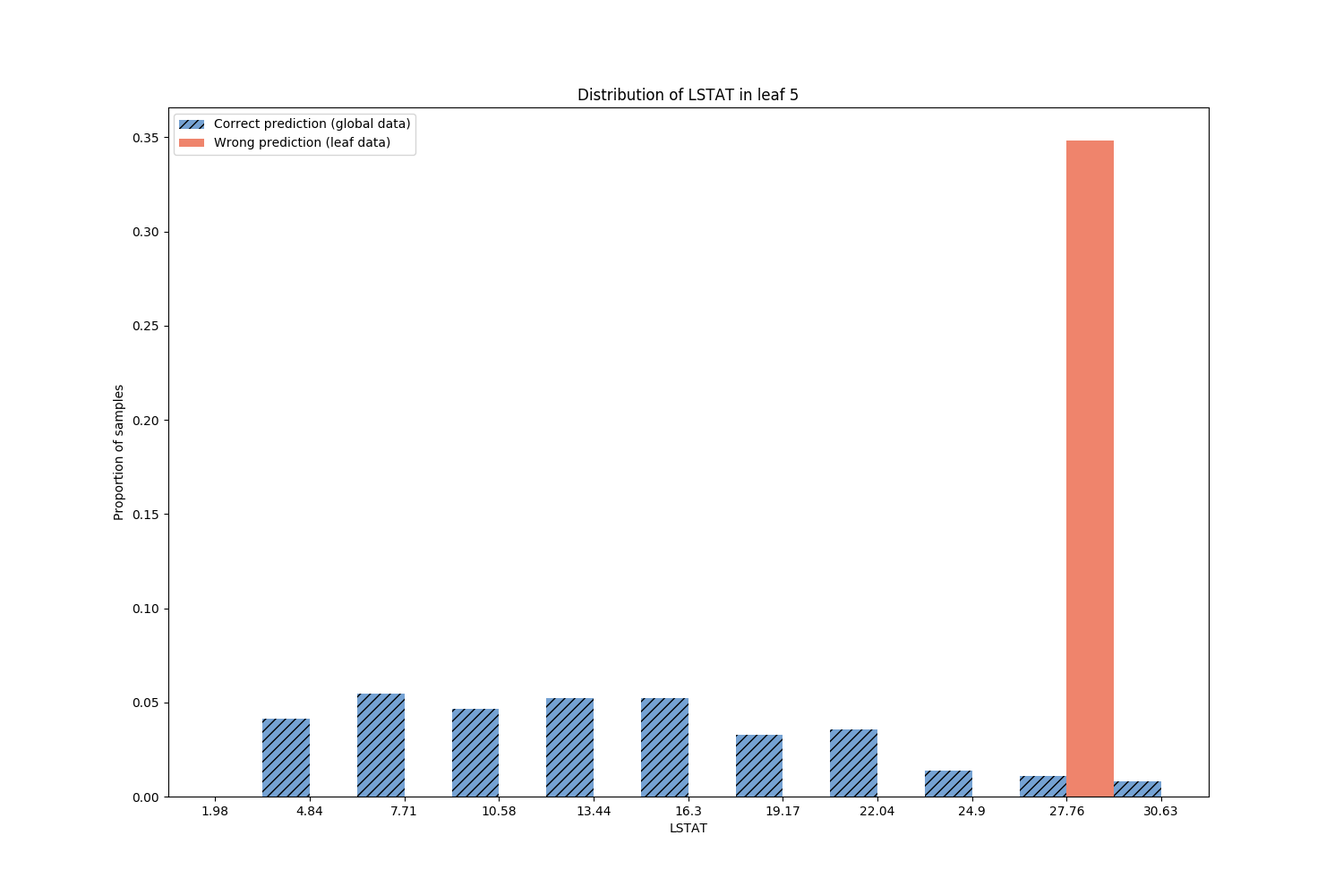
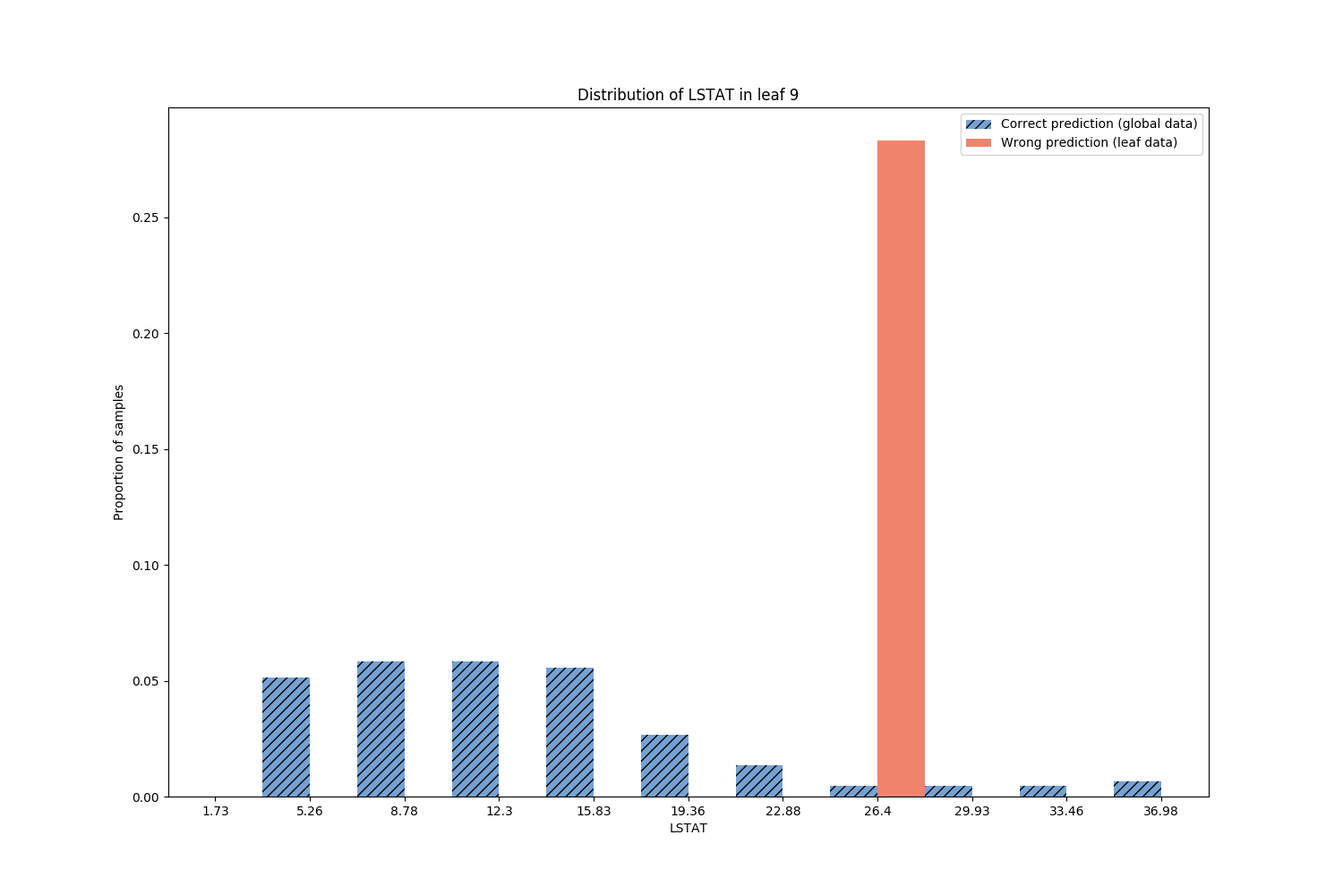
update doc

diff --git a/auto_examples/plot_mea.html b/auto_examples/plot_mea.html
@@ -205,11 +205,18 @@ to the whole data highlights the subpopulations where the model works poorly.</p
 <span class="kn">from</span> <span class="nn">sklearn.ensemble</span> <span class="kn">import</span> <a href="https://scikit-learn.org/stable/modules/generated/sklearn.ensemble.RandomForestRegressor.html#sklearn.ensemble.RandomForestRegressor" title="View documentation for sklearn.ensemble.RandomForestRegressor"><span class="n">RandomForestRegressor</span></a>
 
 <span class="kn">import</span> <span class="nn">numpy</span> <span class="k">as</span> <span class="nn">np</span>
+<span class="kn">import</span> <span class="nn">random</span>
+
+<span class="kn">import</span> <span class="nn">matplotlib.image</span> <span class="k">as</span> <span class="nn">mpimg</span>
+<span class="kn">import</span> <span class="nn">matplotlib.pyplot</span> <span class="k">as</span> <span class="nn">plt</span>
 
 <span class="kn">from</span> <span class="nn">mea.error_analyzer</span> <span class="kn">import</span> <span class="n">ErrorAnalyzer</span>
 <span class="kn">from</span> <span class="nn">mea.error_visualizer</span> <span class="kn">import</span> <span class="n">ErrorVisualizer</span>
 
-<a href="https://numpy.org/doc/stable/reference/random/generated/numpy.random.seed.html#numpy.random.seed" title="View documentation for numpy.random.seed"><span class="n">np</span><span class="o">.</span><span class="n">random</span><span class="o">.</span><span class="n">seed</span></a><span class="p">(</span><span class="mi">100</span><span class="p">)</span>
+
+<a href="https://docs.python.org/3/library/functions.html#int" title="View documentation for builtins.int"><span class="n">default_seed</span></a> <span class="o">=</span> <span class="mi">10</span>
+<a href="https://numpy.org/doc/stable/reference/random/generated/numpy.random.seed.html#numpy.random.seed" title="View documentation for numpy.random.seed"><span class="n">np</span><span class="o">.</span><span class="n">random</span><span class="o">.</span><span class="n">seed</span></a><span class="p">(</span><a href="https://docs.python.org/3/library/functions.html#int" title="View documentation for builtins.int"><span class="n">default_seed</span></a><span class="p">)</span>
+<a href="https://docs.python.org/3/library/random.html#random.seed" title="View documentation for random.seed"><span class="n">random</span><span class="o">.</span><span class="n">seed</span></a><span class="p">(</span><a href="https://docs.python.org/3/library/functions.html#int" title="View documentation for builtins.int"><span class="n">default_seed</span></a><span class="p">)</span>
 </pre></div>
 </div>
 <p>Load Boston houses dataset</p>
@@ -243,54 +250,79 @@ to the whole data highlights the subpopulations where the model works poorly.</p
 </pre></div>
 </div>
 <p class="sphx-glr-script-out">Out:</p>
-<div class="sphx-glr-script-out highlight-none notranslate"><div class="highlight"><pre><span></span>The MPP was trained with accuracy 96.85%.
-The Decision Tree estimated the primary models accuracy to 91.34%.
-The true accuracy of the primary model is 88.19.%
-The Fidelity of the MPP is 96.85%.
+<div class="sphx-glr-script-out highlight-none notranslate"><div class="highlight"><pre><span></span>The MPP was trained with accuracy 98.43%.
+The Decision Tree estimated the primary models accuracy to 86.61%.
+The true accuracy of the primary model is 85.04.%
+The Fidelity of the MPP is 98.43%.
 The MPP is considered representative of the primary model performances.
 </pre></div>
 </div>
 <p>Plot the Model Performance Predictor Decision Tree</p>
 <div class="highlight-python3 notranslate"><div class="highlight"><pre><span></span><span class="n">error_visualizer</span> <span class="o">=</span> <span class="n">ErrorVisualizer</span><span class="p">(</span><span class="n">error_analyzer</span><span class="p">)</span>
-<span class="n">error_visualizer</span><span class="o">.</span><span class="n">plot_error_tree</span><span class="p">(</span><span class="n">size</span><span class="o">=</span><span class="p">(</span><span class="mi">5</span><span class="p">,</span> <span class="mi">5</span><span class="p">))</span>
+<span class="n">tree_src</span> <span class="o">=</span> <span class="n">error_visualizer</span><span class="o">.</span><span class="n">plot_error_tree</span><span class="p">()</span>
+
+<span class="c1"># the output of ``plot_error_tree`` is rendered automatically in a python notebook</span>
+<span class="c1"># the following is for rendering in this sphynx gallery</span>
+<span class="n">tree_src</span><span class="o">.</span><span class="n">format</span> <span class="o">=</span> <span class="s1">&#39;png&#39;</span>
+<span class="n">tree_src</span><span class="o">.</span><span class="n">render</span><span class="p">(</span><span class="s1">&#39;tree&#39;</span><span class="p">)</span>
+<a href="https://numpy.org/doc/stable/reference/generated/numpy.ndarray.html#numpy.ndarray" title="View documentation for numpy.ndarray"><span class="n">tree_img</span></a> <span class="o">=</span> <a href="https://matplotlib.org/api/image_api.html#matplotlib.image.imread" title="View documentation for matplotlib.image.imread"><span class="n">mpimg</span><span class="o">.</span><span class="n">imread</span></a><span class="p">(</span><span class="s1">&#39;tree.png&#39;</span><span class="p">)</span>
+
+<a href="https://matplotlib.org/api/_as_gen/matplotlib.pyplot.figure.html#matplotlib.pyplot.figure" title="View documentation for matplotlib.pyplot.figure"><span class="n">plt</span><span class="o">.</span><span class="n">figure</span></a><span class="p">(</span><span class="n">figsize</span><span class="o">=</span><span class="p">(</span><span class="mi">20</span><span class="p">,</span> <span class="mi">20</span><span class="p">))</span>
+<a href="https://matplotlib.org/api/_as_gen/matplotlib.pyplot.imshow.html#matplotlib.pyplot.imshow" title="View documentation for matplotlib.pyplot.imshow"><span class="n">plt</span><span class="o">.</span><span class="n">imshow</span></a><span class="p">(</span><a href="https://numpy.org/doc/stable/reference/generated/numpy.ndarray.html#numpy.ndarray" title="View documentation for numpy.ndarray"><span class="n">tree_img</span></a><span class="p">)</span>
+<a href="https://matplotlib.org/api/_as_gen/matplotlib.pyplot.axis.html#matplotlib.pyplot.axis" title="View documentation for matplotlib.pyplot.axis"><span class="n">plt</span><span class="o">.</span><span class="n">axis</span></a><span class="p">(</span><span class="s1">&#39;off&#39;</span><span class="p">)</span>
 </pre></div>
 </div>
-<p class="sphx-glr-script-out">Out:</p>
-<div class="sphx-glr-script-out highlight-none notranslate"><div class="highlight"><pre><span></span>&lt;graphviz.files.Source object at 0x12c3ebe80&gt;
-</pre></div>
-</div>
+<img alt="../_images/sphx_glr_plot_mea_001.png" class="sphx-glr-single-img" src="../_images/sphx_glr_plot_mea_001.png" />
 <p>Print the details regarding the decision tree nodes containing the majority of errors</p>
 <div class="highlight-python3 notranslate"><div class="highlight"><pre><span></span><span class="n">error_analyzer</span><span class="o">.</span><span class="n">error_node_summary</span><span class="p">(</span><span class="n">leaf_selector</span><span class="o">=</span><span class="s2">&quot;all_errors&quot;</span><span class="p">,</span> <span class="n">add_path_to_leaves</span><span class="o">=</span><span class="kc">True</span><span class="p">,</span> <span class="n">print_summary</span><span class="o">=</span><span class="kc">True</span><span class="p">);</span>
 </pre></div>
 </div>
 <p class="sphx-glr-script-out">Out:</p>
-<div class="sphx-glr-script-out highlight-none notranslate"><div class="highlight"><pre><span></span>LEAF 2:
-     Correct predictions: 0 | Wrong predictions: 5 | Local error (purity): 1.00 | Global error: 0.33
+<div class="sphx-glr-script-out highlight-none notranslate"><div class="highlight"><pre><span></span>LEAF 12:
+     Correct predictions: 0 | Wrong predictions: 10 | Local error (purity): 1.00 | Global error: 0.53
      Path to leaf:
-     DIS &lt;= 1.51
-        LSTAT &lt;= 20.78
-LEAF 17:
-     Correct predictions: 0 | Wrong predictions: 3 | Local error (purity): 1.00 | Global error: 0.20
-     Path to leaf:
-     DIS &gt; 1.51
-        RM &gt; 8.00
-           NOX &lt;= 0.59
+     AGE &gt; 82.15
+        LSTAT &lt;= 8.96
+           RM &lt;= 8.21
 LEAF 14:
-     Correct predictions: 0 | Wrong predictions: 2 | Local error (purity): 1.00 | Global error: 0.13
+     Correct predictions: 0 | Wrong predictions: 2 | Local error (purity): 1.00 | Global error: 0.11
      Path to leaf:
-     DIS &gt; 1.51
-        RM &lt;= 8.00
-           NOX &gt; 0.51
-              DIS &gt; 2.89
-                 DIS &lt;= 3.34
-LEAF 5:
-     Correct predictions: 0 | Wrong predictions: 1 | Local error (purity): 1.00 | Global error: 0.07
+     AGE &gt; 82.15
+        LSTAT &lt;= 8.96
+           RM &gt; 8.21
+              AGE &lt;= 89.20
+LEAF 3:
+     Correct predictions: 0 | Wrong predictions: 1 | Local error (purity): 1.00 | Global error: 0.05
      Path to leaf:
-     DIS &lt;= 1.51
-        LSTAT &gt; 20.78
-           DIS &gt; 1.47
-
-[{&#39;id&#39;: 2, &#39;n_corrects&#39;: 0.0, &#39;n_errors&#39;: 5.0, &#39;local_error&#39;: 1.0, &#39;global_error&#39;: 0.3333333333333333, &#39;path_to_leaf&#39;: deque([&#39;DIS &lt;= 1.51&#39;, &#39;LSTAT &lt;= 20.78&#39;])}, {&#39;id&#39;: 17, &#39;n_corrects&#39;: 0.0, &#39;n_errors&#39;: 3.0, &#39;local_error&#39;: 1.0, &#39;global_error&#39;: 0.2, &#39;path_to_leaf&#39;: deque([&#39;DIS &gt; 1.51&#39;, &#39;RM &gt; 8.00&#39;, &#39;NOX &lt;= 0.59&#39;])}, {&#39;id&#39;: 14, &#39;n_corrects&#39;: 0.0, &#39;n_errors&#39;: 2.0, &#39;local_error&#39;: 1.0, &#39;global_error&#39;: 0.13333333333333333, &#39;path_to_leaf&#39;: deque([&#39;DIS &gt; 1.51&#39;, &#39;RM &lt;= 8.00&#39;, &#39;NOX &gt; 0.51&#39;, &#39;DIS &gt; 2.89&#39;, &#39;DIS &lt;= 3.34&#39;])}, {&#39;id&#39;: 5, &#39;n_corrects&#39;: 0.0, &#39;n_errors&#39;: 1.0, &#39;local_error&#39;: 1.0, &#39;global_error&#39;: 0.06666666666666667, &#39;path_to_leaf&#39;: deque([&#39;DIS &lt;= 1.51&#39;, &#39;LSTAT &gt; 20.78&#39;, &#39;DIS &gt; 1.47&#39;])}]
+     AGE &lt;= 82.15
+        LSTAT &lt;= 25.53
+           TAX &lt;= 204.50
+LEAF 9:
+     Correct predictions: 0 | Wrong predictions: 1 | Local error (purity): 1.00 | Global error: 0.05
+     Path to leaf:
+     AGE &lt;= 82.15
+        LSTAT &gt; 25.53
+LEAF 17:
+     Correct predictions: 0 | Wrong predictions: 1 | Local error (purity): 1.00 | Global error: 0.05
+     Path to leaf:
+     AGE &gt; 82.15
+        LSTAT &gt; 8.96
+           DIS &lt;= 1.32
+LEAF 19:
+     Correct predictions: 0 | Wrong predictions: 1 | Local error (purity): 1.00 | Global error: 0.05
+     Path to leaf:
+     AGE &gt; 82.15
+        LSTAT &gt; 8.96
+           DIS &gt; 1.32
+              TAX &lt;= 213.00
+LEAF 21:
+     Correct predictions: 0 | Wrong predictions: 1 | Local error (purity): 1.00 | Global error: 0.05
+     Path to leaf:
+     AGE &gt; 82.15
+        LSTAT &gt; 8.96
+           DIS &gt; 1.32
+              TAX &gt; 213.00
+                 RM &lt;= 4.12
 </pre></div>
 </div>
 <p>Plot the feature distributions of samples in the nodes containing the majority of errors
@@ -299,8 +331,6 @@ Rank features by correlation to error</p>
 </pre></div>
 </div>
 <ul class="sphx-glr-horizontal">
-<li><img alt="../_images/sphx_glr_plot_mea_001.png" class="sphx-glr-multi-img" src="../_images/sphx_glr_plot_mea_001.png" />
-</li>
 <li><img alt="../_images/sphx_glr_plot_mea_002.png" class="sphx-glr-multi-img" src="../_images/sphx_glr_plot_mea_002.png" />
 </li>
 <li><img alt="../_images/sphx_glr_plot_mea_003.png" class="sphx-glr-multi-img" src="../_images/sphx_glr_plot_mea_003.png" />
@@ -323,12 +353,37 @@ Rank features by correlation to error</p>
 </li>
 <li><img alt="../_images/sphx_glr_plot_mea_012.png" class="sphx-glr-multi-img" src="../_images/sphx_glr_plot_mea_012.png" />
 </li>
+<li><img alt="../_images/sphx_glr_plot_mea_013.png" class="sphx-glr-multi-img" src="../_images/sphx_glr_plot_mea_013.png" />
+</li>
+<li><img alt="../_images/sphx_glr_plot_mea_014.png" class="sphx-glr-multi-img" src="../_images/sphx_glr_plot_mea_014.png" />
+</li>
+<li><img alt="../_images/sphx_glr_plot_mea_015.png" class="sphx-glr-multi-img" src="../_images/sphx_glr_plot_mea_015.png" />
+</li>
+<li><img alt="../_images/sphx_glr_plot_mea_016.png" class="sphx-glr-multi-img" src="../_images/sphx_glr_plot_mea_016.png" />
+</li>
+<li><img alt="../_images/sphx_glr_plot_mea_017.png" class="sphx-glr-multi-img" src="../_images/sphx_glr_plot_mea_017.png" />
+</li>
+<li><img alt="../_images/sphx_glr_plot_mea_018.png" class="sphx-glr-multi-img" src="../_images/sphx_glr_plot_mea_018.png" />
+</li>
+<li><img alt="../_images/sphx_glr_plot_mea_019.png" class="sphx-glr-multi-img" src="../_images/sphx_glr_plot_mea_019.png" />
+</li>
+<li><img alt="../_images/sphx_glr_plot_mea_020.png" class="sphx-glr-multi-img" src="../_images/sphx_glr_plot_mea_020.png" />
+</li>
+<li><img alt="../_images/sphx_glr_plot_mea_021.png" class="sphx-glr-multi-img" src="../_images/sphx_glr_plot_mea_021.png" />
+</li>
+<li><img alt="../_images/sphx_glr_plot_mea_022.png" class="sphx-glr-multi-img" src="../_images/sphx_glr_plot_mea_022.png" />
+</li>
 </ul>
 <p class="sphx-glr-script-out">Out:</p>
-<div class="sphx-glr-script-out highlight-none notranslate"><div class="highlight"><pre><span></span>Leaf 2 (Wrong prediction: 1.000, Correct prediction: 0.000)
-Leaf 17 (Wrong prediction: 1.000, Correct prediction: 0.000)
+<div class="sphx-glr-script-out highlight-none notranslate"><div class="highlight"><pre><span></span>Leaf 12 (Wrong prediction: 1.000, Correct prediction: 0.000)
 Leaf 14 (Wrong prediction: 1.000, Correct prediction: 0.000)
-Leaf 5 (Wrong prediction: 1.000, Correct prediction: 0.000)
+Leaf 3 (Wrong prediction: 1.000, Correct prediction: 0.000)
+Leaf 9 (Wrong prediction: 1.000, Correct prediction: 0.000)
+Leaf 17 (Wrong prediction: 1.000, Correct prediction: 0.000)
+Leaf 19 (Wrong prediction: 1.000, Correct prediction: 0.000)
+Leaf 21 (Wrong prediction: 1.000, Correct prediction: 0.000)
+/Library/Frameworks/Python.framework/Versions/3.6/lib/python3.6/site-packages/mea-0.0.1-py3.6.egg/mea/error_visualizer.py:49: RuntimeWarning: More than 20 figures have been opened. Figures created through the pyplot interface (`matplotlib.pyplot.figure`) are retained until explicitly closed and may consume too much memory. (To control this warning, see the rcParam `figure.max_open_warning`).
+  plt.figure(figsize=figsize)
 </pre></div>
 </div>
 <div class="section" id="discussion">
@@ -356,8 +411,8 @@ From the feature distributions, sorted by correlation with the error, we can see
 the majority of problems occur for extreme values of features <code class="docutils literal notranslate"><span class="pre">DIS</span></code> and <code class="docutils literal notranslate"><span class="pre">TAX</span></code>.
 In the next iteration of model design, the primary model needs to be improved for these
 subpopulations.</p>
-<p class="sphx-glr-timing"><strong>Total running time of the script:</strong> ( 0 minutes  6.620 seconds)</p>
-<p><strong>Estimated memory usage:</strong>  104 MB</p>
+<p class="sphx-glr-timing"><strong>Total running time of the script:</strong> ( 0 minutes  11.753 seconds)</p>
+<p><strong>Estimated memory usage:</strong>  318 MB</p>
 <div class="sphx-glr-footer class sphx-glr-footer-example docutils container" id="sphx-glr-download-auto-examples-plot-mea-py">
 <div class="sphx-glr-download docutils container">
 <p><a class="reference download internal" download="" href="../_downloads/b9c7db120083279d70637f728d144247/plot_mea.py"><code class="xref download docutils literal notranslate"><span class="pre">Download</span> <span class="pre">Python</span> <span class="pre">source</span> <span class="pre">code:</span> <span class="pre">plot_mea.py</span></code></a></p>

diff --git a/searchindex.js b/searchindex.js
@@ -1,1 +1,1 @@
-Search.setIndex({docnames:["auto_examples/index","auto_examples/plot_mea","auto_examples/sg_execution_times","gen_modules/mea.error_analyzer","gen_modules/mea.error_visualizer","index","introduction","reference"],envversion:{"sphinx.domains.c":1,"sphinx.domains.changeset":1,"sphinx.domains.citation":1,"sphinx.domains.cpp":1,"sphinx.domains.javascript":1,"sphinx.domains.math":2,"sphinx.domains.python":1,"sphinx.domains.rst":1,"sphinx.domains.std":1,"sphinx.ext.intersphinx":1,"sphinx.ext.todo":2,"sphinx.ext.viewcode":1,sphinx:56},filenames:["auto_examples/index.rst","auto_examples/plot_mea.rst","auto_examples/sg_execution_times.rst","gen_modules/mea.error_analyzer.rst","gen_modules/mea.error_visualizer.rst","index.rst","introduction.rst","reference.rst"],objects:{"":{mea:[7,0,0,"-"]},"mea.error_analyzer":{ErrorAnalyzer:[3,1,1,""]},"mea.error_analyzer.ErrorAnalyzer":{error_node_summary:[3,2,1,""],fit:[3,2,1,""],get_ranked_leaf_ids:[3,2,1,""],mpp_summary:[3,2,1,""],predict:[3,2,1,""]},"mea.error_visualizer":{ErrorVisualizer:[4,1,1,""]},"mea.error_visualizer.ErrorVisualizer":{plot_error_tree:[4,2,1,""],plot_feature_distributions_on_leaves:[4,2,1,""]},mea:{error_analyzer:[3,0,0,"-"],error_visualizer:[4,0,0,"-"]}},objnames:{"0":["py","module","Python module"],"1":["py","class","Python class"],"2":["py","method","Python method"]},objtypes:{"0":"py:module","1":"py:class","2":"py:method"},terms:{"0x12c3ebe80":1,"\u03b5":6,"break":6,"case":6,"class":[1,6],"import":[1,3],"return":[1,3,4],"true":[1,4,6],DIS:1,For:1,The:[1,3,5,6,7],Then:1,These:1,_primary_:6,about:6,absolut:6,accuraci:1,add_path_to_leav:[1,3],after:6,again:5,all:0,all_error:[1,3,4],also:[1,5],analysi:[0,2,5],analyz:[3,4,6],ani:6,api:5,approach:6,arrai:3,assert:6,auto_exampl:2,auto_examples_jupyt:0,auto_examples_python:0,automat:[6,7],avoid:6,baselin:4,basic:0,been:1,behavior:1,below:6,between:[3,6],binari:[1,6],boston:[0,2],build:[1,6],call:[1,6],can:[1,5,6],categor:1,characterist:6,classif:6,classifi:[4,6],click:1,clone:5,close:1,cluster:1,code:[0,1,5],collect:6,com:5,compar:[1,4,6],comput:[3,6],consid:[1,6],contain:[1,6],contribut:6,correct:[1,6],correctli:3,correl:[1,6],critic:6,curv:6,data:[1,6],dataiku:5,dataset:[0,2,6],deal:1,decis:[1,3,4,5,6],decisiontre:[1,6],defin:6,dequ:1,design:[1,6],detail:1,develop:5,deviat:[1,6],differ:[1,3,6],discrimin:3,distribut:[1,4],document:[1,7],down:6,download:[0,1],each:1,easier:6,engin:6,enhanc:6,enough:1,ensembl:[1,6],ensur:6,erron:6,error:[0,2,3,4,5],error_analyz:[1,4,5],error_node_summari:[1,3],error_visu:[1,5],erroranalyz:[1,3,4],errorvisu:[1,4],essenti:6,estim:1,evalu:6,everi:7,exampl:[1,5],execut:2,exploit:6,extrem:1,failur:[5,6],fals:[1,3,4],featur:[1,3,4,6],feature_nam:[1,3],fetch:5,fidel:1,figsiz:4,figur:6,file:[1,2],fit:[1,3],focu:[1,6],fork:5,frequent:6,from:[1,5,6],full:1,galleri:[0,1,5],gather:[1,6],gener:[0,1,6],get_ranked_leaf_id:3,git:5,github:5,given:1,global:[1,4,6],global_error:1,graph:4,graphviz:1,ground:[3,6],group:6,have:1,here:1,higher:6,highlight:[1,6],hous:[0,2],http:5,illustr:6,improv:[1,6],index:5,individu:3,inform:[3,6],initi:1,input:3,insight:6,inspect:6,introduct:5,intuit:6,investig:6,ipynb:1,iter:[1,6],its:1,jupyt:[0,1],knee:6,label:6,larg:6,largest:1,later:6,latter:6,lead:6,leaf:1,leaf_selector:[1,3,4],learn:5,leav:[1,6],let:1,leverag:5,like:6,limit:6,load:1,load_boston:1,local:1,local_error:1,look:1,lstat:1,major:1,manual:6,max_nr_row:3,mea:[0,1,6],meaning:6,meant:6,memori:1,metric:[3,5],minut:1,mis:[1,6],mislabel:6,model:[0,2,3,5],model_select:1,modul:[5,7],more:[1,6],most:6,mostli:6,mpp:[1,6],mpp_summari:[1,3],must:3,n_correct:1,n_error:1,necessari:1,need:[1,6],next:1,node:[1,3,4],none:[3,4],notebook:[0,1],nox:1,nr_bin:4,nr_max_row:3,number:1,numpi:[1,3],object:1,occur:1,one:[1,6],other:1,our:1,out:1,outcom:[1,6],output_dict:[1,3],over:1,packag:[5,6],page:5,particular:[1,6],path:1,path_to_leaf:1,perform:[3,5,6],pip:5,plot:[1,4],plot_error_tre:[1,4],plot_feature_distributions_on_leav:[1,4],plot_mea:[1,2],point:6,poorli:[1,6],popul:6,precis:6,predict:[1,3,5,6],predictor:[3,5,6],prefer:5,price:1,primari:[1,3,6],principl:5,print:[1,3],print_summari:[1,3],problem:1,problemat:6,process:6,project:[5,7],provid:[4,6],purest:1,puriti:[1,3,4],python:[0,1,5],r2_score:1,random:1,randomforestregressor:1,rank:[1,3],rank_bi:3,rank_leaves_bi:4,rec:6,refer:5,regard:[1,3,6],regress:[1,6],reli:6,remov:6,repositori:5,repres:[1,6],run:1,same:3,sampl:[1,3,6],scientist:6,scikit:5,score:1,script:1,search:5,second:1,secondari:[1,6],see:1,seed:[1,3],segment:[3,6],select:[3,6],set:[3,6],show:0,show_class:4,show_glob:4,similar:6,size:[1,4],sklearn:1,smaller:6,sort:1,sourc:[0,1,3,4],sphinx:[0,1],split:6,strategi:6,streamlin:6,studi:3,sub:6,subpopul:[1,6],success:[1,5,6],summari:[1,3],support:6,target:[1,3],task:[1,6],tax:1,test:[3,6],than:6,thank:6,them:[3,6],thi:[1,6],those:[0,1],threshold:[1,6],through:5,thu:6,time:1,toler:6,tool:6,top_k_featur:[1,4],total:[1,2],train:[1,3,6],train_test_split:1,tree:[1,3,4,5,6],truth:[3,6],two:1,type:6,typic:6,under:6,usag:[0,1],use:5,user:6,uses:3,using:[3,5],usual:6,util:4,valu:[1,3,6],visual:4,wai:5,well:6,what:[1,6],when:[1,6],where:1,wherea:6,whether:6,which:6,whole:1,within:6,won:3,work:[1,3],workflow:6,wrong:[1,6],wrongli:3,x_test:[1,3],x_train:1,y_test:[1,3],y_train:1,yield:[1,6],you:5,your:5,zip:0},titles:["Examples","Model Error Analysis for the Boston houses dataset","Computation times","mea.error_analyzer","mea.error_visualizer","Welcome to mea\u2019s documentation!","Introduction to Model Error Analysis","mea\u2019s API Reference"],titleterms:{"class":[3,4],Using:5,analysi:[1,6],api:7,boston:1,comput:2,dataset:1,discuss:1,document:5,error:[1,6],error_analyz:3,error_visu:4,exampl:0,failur:1,hous:1,indic:5,instal:5,introduct:6,local:5,mea:[3,4,5,7],metric:[1,6],model:[1,6],perform:1,predictor:1,principl:6,pypi:5,refer:7,tabl:5,time:2,welcom:5}})
+Search.setIndex({docnames:["auto_examples/index","auto_examples/plot_mea","auto_examples/sg_execution_times","gen_modules/mea.error_analyzer","gen_modules/mea.error_visualizer","index","introduction","reference"],envversion:{"sphinx.domains.c":1,"sphinx.domains.changeset":1,"sphinx.domains.citation":1,"sphinx.domains.cpp":1,"sphinx.domains.javascript":1,"sphinx.domains.math":2,"sphinx.domains.python":1,"sphinx.domains.rst":1,"sphinx.domains.std":1,"sphinx.ext.intersphinx":1,"sphinx.ext.todo":2,"sphinx.ext.viewcode":1,sphinx:56},filenames:["auto_examples/index.rst","auto_examples/plot_mea.rst","auto_examples/sg_execution_times.rst","gen_modules/mea.error_analyzer.rst","gen_modules/mea.error_visualizer.rst","index.rst","introduction.rst","reference.rst"],objects:{"":{mea:[7,0,0,"-"]},"mea.error_analyzer":{ErrorAnalyzer:[3,1,1,""]},"mea.error_analyzer.ErrorAnalyzer":{error_node_summary:[3,2,1,""],fit:[3,2,1,""],get_ranked_leaf_ids:[3,2,1,""],mpp_summary:[3,2,1,""],predict:[3,2,1,""]},"mea.error_visualizer":{ErrorVisualizer:[4,1,1,""]},"mea.error_visualizer.ErrorVisualizer":{plot_error_tree:[4,2,1,""],plot_feature_distributions_on_leaves:[4,2,1,""]},mea:{error_analyzer:[3,0,0,"-"],error_visualizer:[4,0,0,"-"]}},objnames:{"0":["py","module","Python module"],"1":["py","class","Python class"],"2":["py","method","Python method"]},objtypes:{"0":"py:module","1":"py:class","2":"py:method"},terms:{"\u03b5":6,"break":6,"case":6,"class":[1,6],"import":[1,3],"return":[1,3,4],"true":[1,4,6],AGE:1,DIS:1,For:1,The:[1,3,5,6,7],Then:1,These:1,_primary_:6,about:6,absolut:6,accuraci:1,add_path_to_leav:[1,3],after:6,again:5,all:0,all_error:[1,3,4],also:[1,5],analysi:[0,2,5],analyz:[3,4,6],ani:6,api:5,approach:6,arrai:3,assert:6,auto_exampl:2,auto_examples_jupyt:0,auto_examples_python:0,automat:[1,6,7],avoid:6,axi:1,baselin:4,basic:0,been:1,behavior:1,below:6,between:[3,6],binari:[1,6],boston:[0,2],build:[1,6],call:[1,6],can:[1,5,6],categor:1,characterist:6,classif:6,classifi:[4,6],click:1,clone:5,close:1,cluster:1,code:[0,1,5],collect:6,com:5,compar:[1,4,6],comput:[3,6],consid:[1,6],consum:1,contain:[1,6],contribut:6,control:1,correct:[1,6],correctli:3,correl:[1,6],creat:1,critic:6,curv:6,data:[1,6],dataiku:5,dataset:[0,2,6],deal:1,decis:[1,3,4,5,6],decisiontre:[1,6],default_se:1,defin:6,design:[1,6],detail:1,develop:5,deviat:[1,6],differ:[1,3,6],discrimin:3,distribut:[1,4],document:[1,7],down:6,download:[0,1],each:1,easier:6,egg:1,engin:6,enhanc:6,enough:1,ensembl:[1,6],ensur:6,erron:6,error:[0,2,3,4,5],error_analyz:[1,4,5],error_node_summari:[1,3],error_visu:[1,5],erroranalyz:[1,3,4],errorvisu:[1,4],essenti:6,estim:1,evalu:6,everi:7,exampl:[1,5],execut:2,explicitli:1,exploit:6,extrem:1,failur:[5,6],fals:[1,3,4],featur:[1,3,4,6],feature_nam:[1,3],fetch:5,fidel:1,figsiz:[1,4],figur:[1,6],file:2,fit:[1,3],focu:[1,6],follow:1,fork:5,format:1,framework:1,frequent:6,from:[1,5,6],full:1,galleri:[0,1,5],gather:[1,6],gener:[0,1,6],get_ranked_leaf_id:3,git:5,github:5,given:1,global:[1,4,6],graph:4,ground:[3,6],group:6,have:1,here:1,higher:6,highlight:[1,6],hous:[0,2],http:5,illustr:6,imag:1,improv:[1,6],imread:1,imshow:1,index:5,individu:3,inform:[3,6],initi:1,input:3,insight:6,inspect:6,interfac:1,introduct:5,intuit:6,investig:6,ipynb:1,iter:[1,6],its:1,jupyt:[0,1],knee:6,label:6,larg:6,largest:1,later:6,latter:6,lead:6,leaf:1,leaf_selector:[1,3,4],learn:5,leav:[1,6],let:1,leverag:5,lib:1,librari:1,like:6,limit:6,load:1,load_boston:1,local:1,look:1,lstat:1,mai:1,major:1,manual:6,matplotlib:1,max_nr_row:3,max_open_warn:1,mea:[0,1,6],meaning:6,meant:6,memori:1,metric:[3,5],minut:1,mis:[1,6],mislabel:6,model:[0,2,3,5],model_select:1,modul:[5,7],more:[1,6],most:6,mostli:6,mpimg:1,mpp:[1,6],mpp_summari:[1,3],much:1,must:3,necessari:1,need:[1,6],next:1,node:[1,3,4],none:[3,4],notebook:[0,1],nr_bin:4,nr_max_row:3,number:1,numpi:[1,3],occur:1,off:1,one:[1,6],open:1,other:1,our:1,out:1,outcom:[1,6],output:1,output_dict:[1,3],over:1,packag:[1,5,6],page:5,particular:[1,6],path:1,perform:[3,5,6],pip:5,plot:[1,4],plot_error_tre:[1,4],plot_feature_distributions_on_leav:[1,4],plot_mea:[1,2],plt:1,png:1,point:6,poorli:[1,6],popul:6,precis:6,predict:[1,3,5,6],predictor:[3,5,6],prefer:5,price:1,primari:[1,3,6],principl:5,print:[1,3],print_summari:[1,3],problem:1,problemat:6,process:6,project:[5,7],provid:[4,6],purest:1,puriti:[1,3,4],py3:1,pyplot:1,python3:1,python:[0,1,5],r2_score:1,random:1,randomforestregressor:1,rank:[1,3],rank_bi:3,rank_leaves_bi:4,rcparam:1,rec:6,refer:5,regard:[1,3,6],regress:[1,6],reli:6,remov:6,render:1,repositori:5,repres:[1,6],retain:1,run:1,runtimewarn:1,same:3,sampl:[1,3,6],scientist:6,scikit:5,score:1,script:1,search:5,second:1,secondari:[1,6],see:1,seed:[1,3],segment:[3,6],select:[3,6],set:[3,6],show:0,show_class:4,show_glob:4,similar:6,site:1,size:4,sklearn:1,smaller:6,sort:1,sourc:[0,1,3,4],sphinx:[0,1],sphynx:1,split:6,strategi:6,streamlin:6,studi:3,sub:6,subpopul:[1,6],success:[1,5,6],summari:[1,3],support:6,target:[1,3],task:[1,6],tax:1,test:[3,6],than:[1,6],thank:6,them:[3,6],thi:[1,6],those:[0,1],threshold:[1,6],through:[1,5],thu:6,time:1,toler:6,too:1,tool:6,top_k_featur:[1,4],total:[1,2],train:[1,3,6],train_test_split:1,tree:[1,3,4,5,6],tree_img:1,tree_src:1,truth:[3,6],two:1,type:6,typic:6,under:6,until:1,usag:[0,1],use:5,user:6,uses:3,using:[3,5],usual:6,util:4,valu:[1,3,6],version:1,visual:4,wai:5,warn:1,well:6,what:[1,6],when:[1,6],where:1,wherea:6,whether:6,which:6,whole:1,within:6,won:3,work:[1,3],workflow:6,wrong:[1,6],wrongli:3,x_test:[1,3],x_train:1,y_test:[1,3],y_train:1,yield:[1,6],you:5,your:5,zip:0},titles:["Examples","Model Error Analysis for the Boston houses dataset","Computation times","mea.error_analyzer","mea.error_visualizer","Welcome to mea\u2019s documentation!","Introduction to Model Error Analysis","mea\u2019s API Reference"],titleterms:{"class":[3,4],Using:5,analysi:[1,6],api:7,boston:1,comput:2,dataset:1,discuss:1,document:5,error:[1,6],error_analyz:3,error_visu:4,exampl:0,failur:1,hous:1,indic:5,instal:5,introduct:6,local:5,mea:[3,4,5,7],metric:[1,6],model:[1,6],perform:1,predictor:1,principl:6,pypi:5,refer:7,tabl:5,time:2,welcom:5}})

diff --git a/auto_examples/sg_execution_times.html b/auto_examples/sg_execution_times.html
@@ -173,7 +173,7 @@
             
   <div class="section" id="computation-times">
 <span id="sphx-glr-auto-examples-sg-execution-times"></span><h1>Computation times<a class="headerlink" href="#computation-times" title="Permalink to this headline">¶</a></h1>
-<p><strong>00:06.620</strong> total execution time for <strong>auto_examples</strong> files:</p>
+<p><strong>00:11.753</strong> total execution time for <strong>auto_examples</strong> files:</p>
 <table class="docutils align-default">
 <colgroup>
 <col style="width: 74%" />
@@ -182,8 +182,8 @@
 </colgroup>
 <tbody>
 <tr class="row-odd"><td><p><a class="reference internal" href="plot_mea.html#sphx-glr-auto-examples-plot-mea-py"><span class="std std-ref">Model Error Analysis for the Boston houses dataset</span></a> (<code class="docutils literal notranslate"><span class="pre">plot_mea.py</span></code>)</p></td>
-<td><p>00:06.620</p></td>
-<td><p>104.0 MB</p></td>
+<td><p>00:11.753</p></td>
+<td><p>318.1 MB</p></td>
 </tr>
 </tbody>
 </table>

diff --git a/_downloads/b9c7db120083279d70637f728d144247/plot_mea.py b/_downloads/b9c7db120083279d70637f728d144247/plot_mea.py
@@ -21,11 +21,18 @@ from sklearn.model_selection import train_test_split
 from sklearn.ensemble import RandomForestRegressor
 
 import numpy as np
+import random
+
+import matplotlib.image as mpimg
+import matplotlib.pyplot as plt
 
 from mea.error_analyzer import ErrorAnalyzer
 from mea.error_visualizer import ErrorVisualizer
 
-np.random.seed(100)
+
+default_seed = 10
+np.random.seed(default_seed)
+random.seed(default_seed)
 
 ##############################################################################
 # Load Boston houses dataset
@@ -61,7 +68,17 @@ print(error_analyzer.mpp_summary(X_test, y_test, output_dict=False))
 # Plot the Model Performance Predictor Decision Tree
 
 error_visualizer = ErrorVisualizer(error_analyzer)
-error_visualizer.plot_error_tree(size=(5, 5))
+tree_src = error_visualizer.plot_error_tree()
+
+# the output of ``plot_error_tree`` is rendered automatically in a python notebook
+# the following is for rendering in this sphynx gallery
+tree_src.format = 'png'
+tree_src.render('tree')
+tree_img = mpimg.imread('tree.png')
+
+plt.figure(figsize=(20, 20))
+plt.imshow(tree_img)
+plt.axis('off')
 
 ##############################################################################
 # Print the details regarding the decision tree nodes containing the majority of errors
